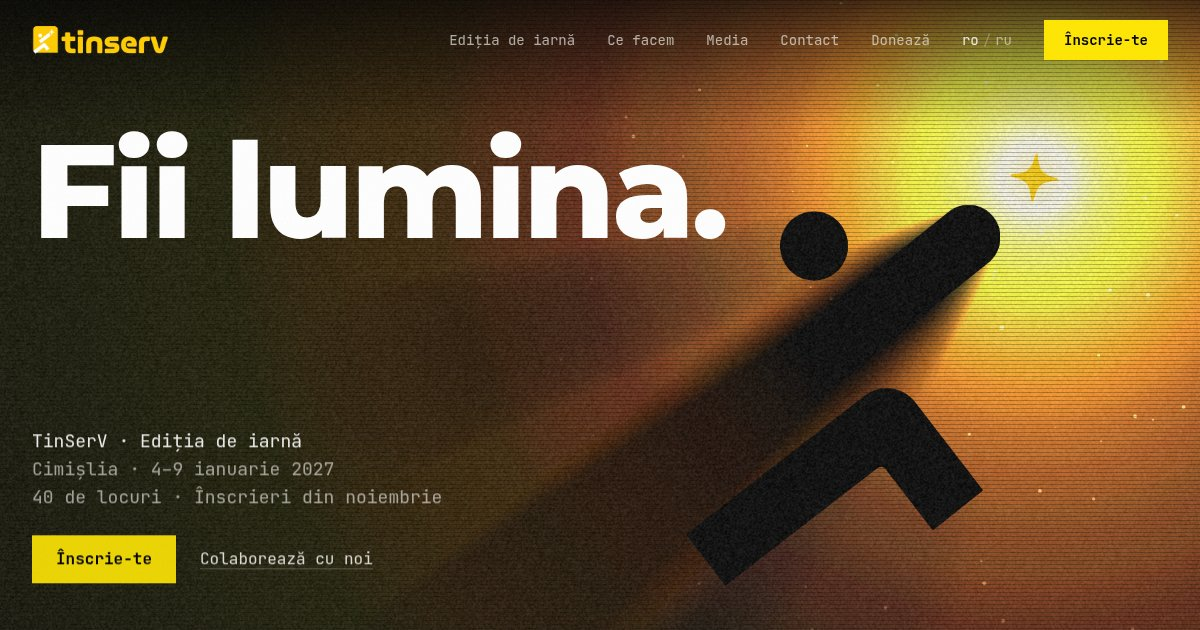
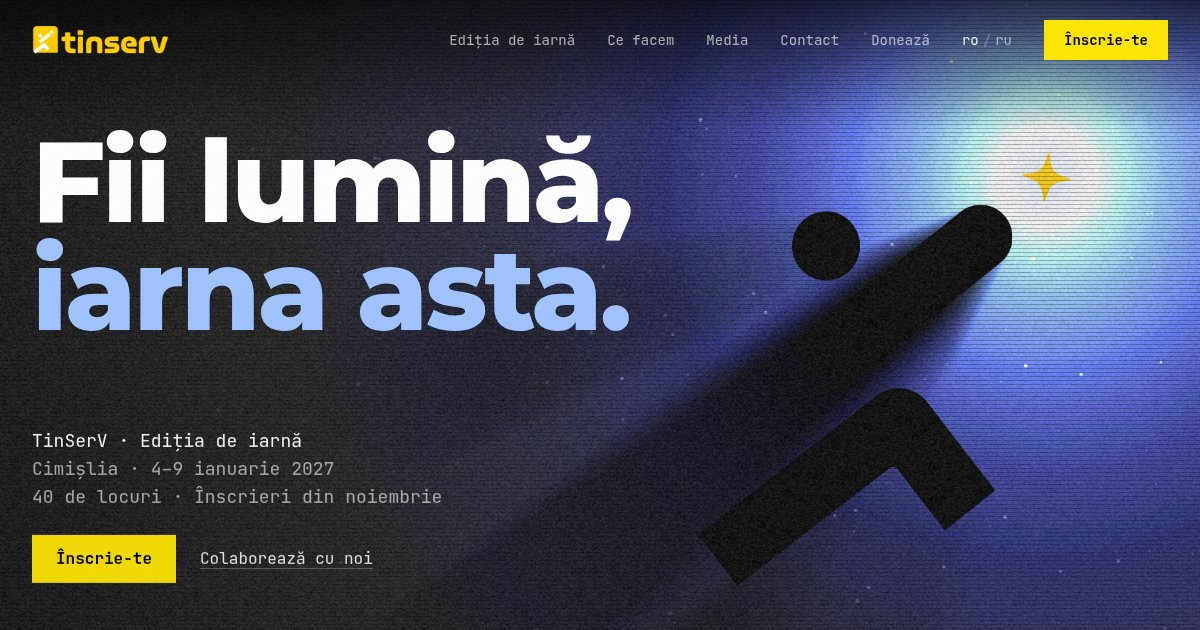
Hero reads "Fii lumină, iarna asta." as one phrase when the light turns cold
Use the correct diacritic in Fii lumină, morph the period into a comma,
show the second line at full size, and refresh the share image.

diff --git a/src/components/Hero.tsx b/src/components/Hero.tsx
@@ -12,12 +12,17 @@ export default function Hero() {
       <div className="pointer-events-none absolute inset-x-0 top-0 h-32 bg-gradient-to-b from-black/70 to-transparent" />
 
       <div className="relative z-10 mx-auto flex h-full max-w-7xl flex-col justify-between px-5 pb-8 pt-24 sm:px-8 lg:pb-12 lg:pt-32">
-        <h1 className="font-black-heading animate-fade-in-up text-[clamp(3.5rem,11vw,10rem)] text-white">
+        <h1 className="font-black-heading animate-fade-in-up text-[clamp(3.25rem,9.5vw,8.5rem)] text-white">
           {h.title}
-          {/* revealed when the light turns cold; opacity follows --cold set by Raze */}
+          {/* One sentence that grows with the cold light (--cold, set by Raze):
+              "Fii lumină." becomes "Fii lumină, / iarna asta." */}
+          <span className="inline-grid">
+            <span className="[grid-area:1/1]" style={{ opacity: 'calc(1 - var(--cold, 0))' }}>.</span>
+            <span className="[grid-area:1/1]" style={{ opacity: 'var(--cold, 0)' }}>,</span>
+          </span>
           <span
-            className="mt-[0.15em] block text-[0.5em] text-ice"
-            style={{ opacity: 'var(--cold, 0)', transform: 'translateY(calc((1 - var(--cold, 0)) * 0.12em))', filter: 'blur(calc((1 - var(--cold, 0)) * 6px))' }}
+            className="block text-ice"
+            style={{ opacity: 'var(--cold, 0)', transform: 'translateY(calc((1 - var(--cold, 0)) * 0.08em))', filter: 'blur(calc((1 - var(--cold, 0)) * 8px))' }}
           >
             {h.winter}
           </span>

diff --git a/src/translations.ts b/src/translations.ts
@@ -3,8 +3,8 @@ export const translations = {
         site: {
             nav: { camp: 'Ediția de iarnă', about: 'Ce facem', media: 'Media', contact: 'Contact', donate: 'Donează', register: 'Înscrie-te' },
             hero: {
-                title: 'Fii lumina.',
-                winter: 'iarna asta',
+                title: 'Fii lumină',
+                winter: 'iarna asta.',
                 camp: 'TinSerV · Ediția de iarnă',
                 when: 'Cimișlia · 4–9 ianuarie 2027',
                 seats: '40 de locuri · Înscrieri din noiembrie',
@@ -138,8 +138,8 @@ export const translations = {
         site: {
             nav: { camp: 'Зимняя смена', about: 'Что мы делаем', media: 'Медиа', contact: 'Контакты', donate: 'Пожертвовать', register: 'Записаться' },
             hero: {
-                title: 'Будь светом.',
-                winter: 'этой зимой',
+                title: 'Будь светом',
+                winter: 'этой зимой.',
                 camp: 'TinSerV · Зимняя смена',
                 when: 'Чимишлия · 4–9 января 2027',
                 seats: '40 мест · Регистрация с ноября',

diff --git a/index.html b/index.html
@@ -8,12 +8,12 @@
   <link rel="icon" type="image/png" sizes="32x32" href="/favicon-32.png" />
   <link rel="icon" type="image/png" sizes="16x16" href="/favicon-16.png" />
   <link rel="apple-touch-icon" sizes="180x180" href="/apple-touch-icon.png" />
-  <title>TinSerV Chișinău · Fii lumina</title>
+  <title>TinSerV Chișinău · Fii lumină</title>
   <meta name="description" content="TinSerV, tineri în serviciul voluntar din Chișinău. Ediția de iarnă: Cimișlia, 4–9 ianuarie 2027." />
   <meta name="theme-color" content="#0a0908" />
   <meta property="og:type" content="website" />
   <meta property="og:site_name" content="TinSerV Chișinău" />
-  <meta property="og:title" content="TinSerV Chișinău · Fii lumina" />
+  <meta property="og:title" content="TinSerV Chișinău · Fii lumină" />
   <meta property="og:description" content="Ediția de iarnă TinSerV: Cimișlia, 4–9 ianuarie 2027. 40 de locuri, înscrieri din noiembrie." />
   <meta property="og:url" content="https://tinserv.site/" />
   <meta property="og:image" content="https://tinserv.site/og.jpg" />

diff --git a/src/components/Raze.tsx b/src/components/Raze.tsx
@@ -105,7 +105,7 @@ export default function Raze({ className = '' }: { className?: string }) {
       const wide = W > H * 1.05;
       // Short, wide windows (laptops, the 1200×630 share image) keep the head clear of the headline.
       const fh = wide ? Math.min(H * 0.74, W * 0.4 * FIG.h / FIG.w) : Math.min(H * 0.42, W * 0.8 * FIG.h / FIG.w);
-      const cx = wide ? W * (W / H > 1.7 ? 0.74 : 0.7) : W * 0.5;
+      const cx = wide ? W * (W / H > 1.7 ? 0.75 : 0.72) : W * 0.5;
       const cy = wide ? H * 0.56 : H * 0.5;
       const s = fh / FIG.h;
       return { fh, cx, cy, home: [cx + (SPARK.x - FIG.w / 2) * s, cy + (SPARK.y - FIG.h / 2) * s] as [number, number] };

diff --git a/public/s/raze-ckegmm/index.html b/public/s/raze-ckegmm/index.html
@@ -177,7 +177,7 @@ new p5(p => {
     if (state.text) {
       const m = 64 * u;
       p.noStroke(); p.fill(255); p.textFont(HEAD); p.textSize(140 * u); p.textAlign(p.RIGHT, p.TOP);
-      p.text('Fii lumina.', W - m, m);
+      p.text('Fii lumină.', W - m, m);
       p.fill(255, 175); p.textFont(MONO); p.textSize(40 * u);
       p.text('Будь светом.', W - m, m + 168 * u);
       p.textAlign(p.LEFT, p.BOTTOM); p.textSize(24 * u);
